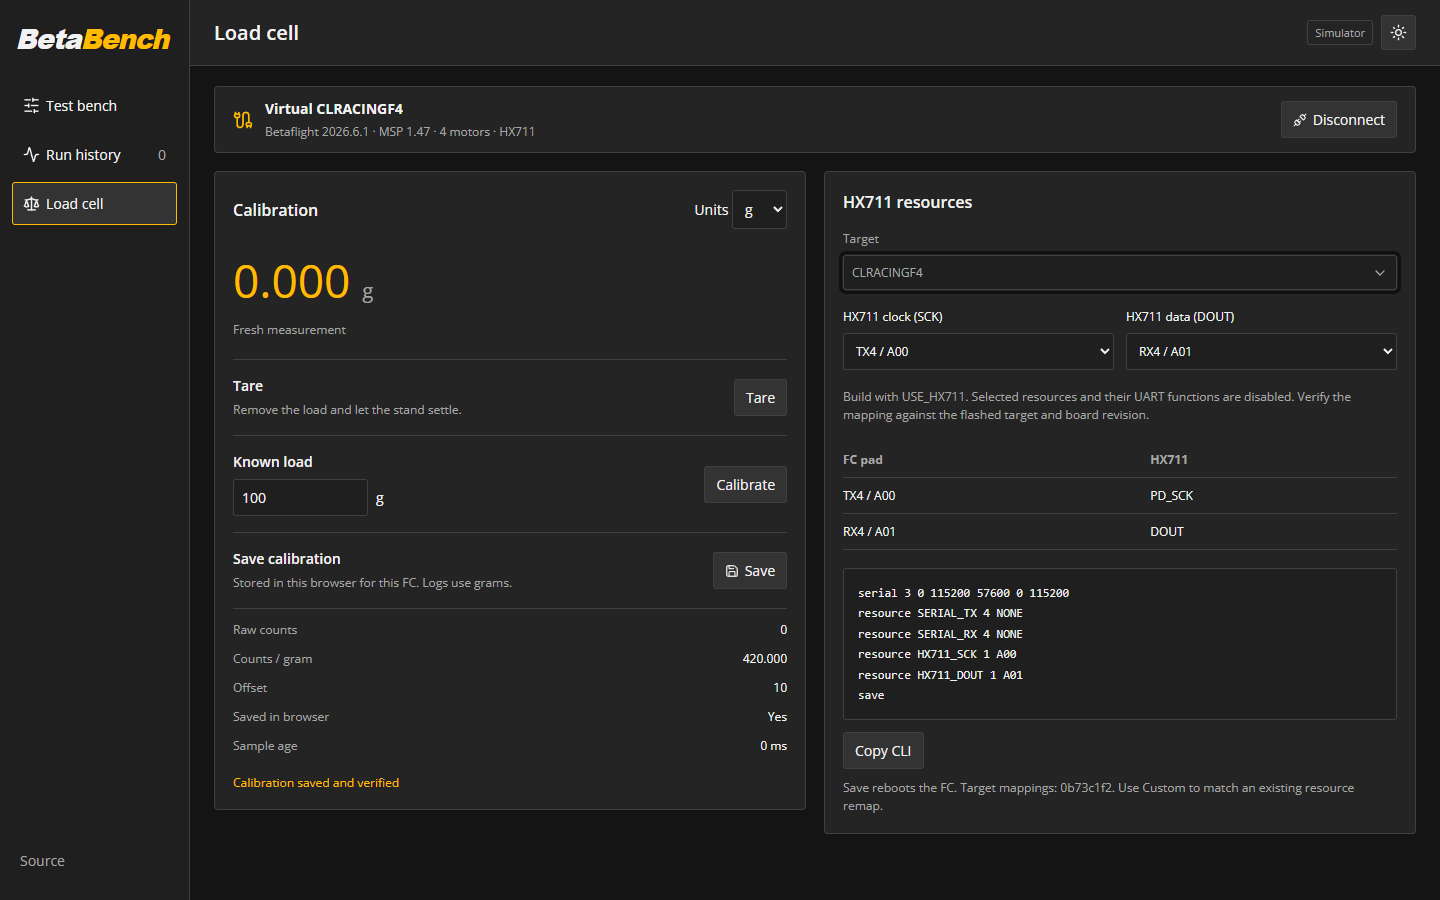
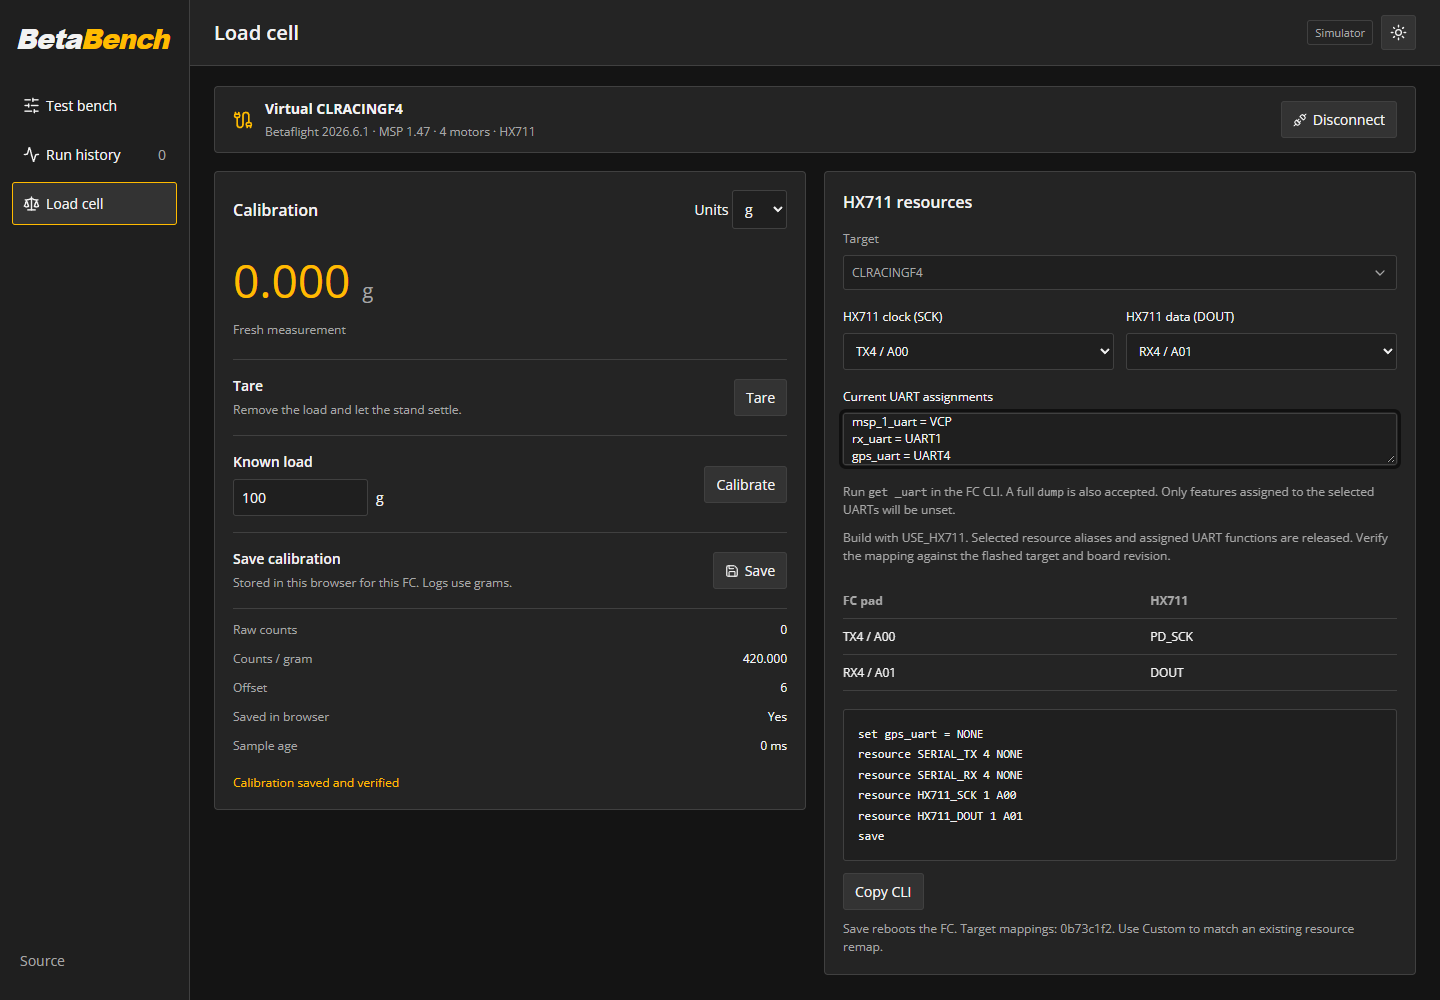
Use feature UART settings in HX711 resource helper

diff --git a/src/ResourceSetup.tsx b/src/ResourceSetup.tsx
@@ -7,20 +7,40 @@ export type Pad = {
   index: number;
   pin: string;
 };
-export function resourceCli(pads: Pad[], sck: Pad, dout: Pad) {
+export function uartAssignments(text: string) {
+  const assignments = new Map<string, string>();
+  for (const line of text.split("\n")) {
+    const match = line
+      .trim()
+      .match(
+        /^(?:set\s+)?([a-z][a-z0-9_]*_uart)\s*=\s*(NONE|VCP|UART\d+|LPUART\d+|PIOUART\d+|SOFT\d+)\s*$/i,
+      );
+    if (match) assignments.set(match[1].toLowerCase(), match[2].toUpperCase());
+  }
+  return assignments;
+}
+
+function affectedPads(pads: Pad[], sck: Pad, dout: Pad) {
+  return pads.filter((p) => p.pin === sck.pin || p.pin === dout.pin);
+}
+
+export function resourceCli(pads: Pad[], sck: Pad, dout: Pad, settings = "") {
   if (sck.pin === dout.pin) throw Error("Choose different GPIO pads");
-  const affected = pads.filter((p) => p.pin === sck.pin || p.pin === dout.pin);
-  const uarts = [
-    ...new Set(
-      affected
-        .filter((p) => p.resource.startsWith("SERIAL_"))
-        .map((p) => p.index),
-    ),
-  ];
+  const affected = affectedPads(pads, sck, dout);
+  const uarts = new Set(
+    affected
+      .filter((p) => p.resource === "SERIAL_TX" || p.resource === "SERIAL_RX")
+      .map((p) => `UART${p.index}`),
+  );
+  const assignments = uartAssignments(settings);
+  if (uarts.size && !assignments.size)
+    throw Error(
+      "Paste the complete output of get _uart to identify functions using these UART pads",
+    );
   return [
-    ...uarts
-      .sort((a, b) => a - b)
-      .map((n) => `serial ${n - 1} 0 115200 57600 0 115200`),
+    ...[...assignments]
+      .filter(([, port]) => uarts.has(port))
+      .map(([setting]) => `set ${setting} = NONE`),
     ...new Set(affected.map((p) => `resource ${p.resource} ${p.index} NONE`)),
     `resource HX711_SCK 1 ${sck.pin}`,
     `resource HX711_DOUT 1 ${dout.pin}`,
@@ -36,10 +56,19 @@ export function ResourceSetup() {
   const [customSck, setCustomSck] = useState("");
   const [customDout, setCustomDout] = useState("");
   const [customResources, setCustomResources] = useState("");
+  const [uartSettings, setUartSettings] = useState("");
   const [copied, setCopied] = useState(false);
   useEffect(
     () => setCopied(false),
-    [name, sckKey, doutKey, customSck, customDout, customResources],
+    [
+      name,
+      sckKey,
+      doutKey,
+      customSck,
+      customDout,
+      customResources,
+      uartSettings,
+    ],
   );
   const target = data.targets.find((t) => t.name === name);
   const pads: Pad[] =
@@ -65,6 +94,7 @@ export function ResourceSetup() {
       pads.find((p) => p.pin !== sck.pin)!)
     : { label: "DOUT", resource: "", index: 1, pin: customDout.toUpperCase() };
   function selectTarget(value: string) {
+    setUartSettings("");
     setName(value);
     setQuery(value === "custom" ? "Custom / current resource dump" : value);
     const t = data.targets.find((t) => t.name === value);
@@ -81,6 +111,12 @@ export function ResourceSetup() {
   }
   let cli = "",
     error = "";
+  const needsUartSettings =
+    sck &&
+    dout &&
+    affectedPads(pads, sck, dout).some(
+      (p) => p.resource === "SERIAL_TX" || p.resource === "SERIAL_RX",
+    );
   if (name)
     try {
       if (
@@ -90,9 +126,14 @@ export function ResourceSetup() {
         !/^([A-Z]\d{2})$/.test(dout.pin)
       )
         throw Error("Enter GPIO pins such as A00 and A01");
-      cli = resourceCli(pads, sck, dout);
+      cli = resourceCli(
+        pads,
+        sck,
+        dout,
+        `${target ? "" : customResources}\n${uartSettings}`,
+      );
     } catch (e) {
-      error = String(e);
+      error = e instanceof Error ? e.message : String(e);
     }
   return (
     <section className="panel wiring">
@@ -115,6 +156,7 @@ export function ResourceSetup() {
             setName("");
             setSck("");
             setDout("");
+            setUartSettings("");
           }}
           onSelect={selectTarget}
         />
@@ -183,10 +225,26 @@ export function ResourceSetup() {
               </div>
             </>
           )}
+          {needsUartSettings && (
+            <label>
+              Current UART assignments
+              <textarea
+                aria-label="Current UART assignments"
+                placeholder="Paste the complete output of get _uart"
+                value={uartSettings}
+                onChange={(e) => setUartSettings(e.target.value)}
+              />
+              <span className="subtle">
+                Run <code>get _uart</code> in the FC CLI. A full{" "}
+                <code>dump</code> is also accepted. Only features assigned to
+                the selected UARTs will be unset.
+              </span>
+            </label>
+          )}
           <p className="subtle">
-            Build with USE_HX711. Selected resources and their UART functions
-            are disabled. Verify the mapping against the flashed target and
-            board revision.
+            Build with USE_HX711. Selected resource aliases and assigned UART
+            functions are released. Verify the mapping against the flashed
+            target and board revision.
           </p>
           <table>
             <thead>

diff --git a/tests/resources.test.ts b/tests/resources.test.ts
@@ -1,15 +1,22 @@
 import { it, expect } from "vitest";
-import { resourceCli } from "../src/ResourceSetup";
+import { resourceCli, uartAssignments } from "../src/ResourceSetup";
 import targets from "../src/targets.json";
 it("releases UART functions and all resource aliases for the chosen pads", () => {
   const target = targets.targets.find((t) => t.name === "CLRACINGF4")!;
   const sck = target.pads.find((p) => p.label === "TX4")!,
     dout = target.pads.find((p) => p.label === "RX4")!;
-  expect(resourceCli(target.pads, sck, dout)).toBe(
-    "serial 3 0 115200 57600 0 115200\nresource SERIAL_TX 4 NONE\nresource SERIAL_RX 4 NONE\nresource HX711_SCK 1 A00\nresource HX711_DOUT 1 A01\nsave",
+  expect(
+    resourceCli(
+      target.pads,
+      sck,
+      dout,
+      "gps_uart = UART4\nmsp_1_uart = VCP\nrx_uart = UART1",
+    ),
+  ).toBe(
+    "set gps_uart = NONE\nresource SERIAL_TX 4 NONE\nresource SERIAL_RX 4 NONE\nresource HX711_SCK 1 A00\nresource HX711_DOUT 1 A01\nsave",
   );
   const motor = target.pads.find((p) => p.label === "M5")!;
-  const cli = resourceCli(target.pads, motor, dout);
+  const cli = resourceCli(target.pads, motor, dout, "gps_uart = UART4");
   expect(cli).toContain("resource MOTOR 5 NONE");
   expect(cli).toContain("resource LED_STRIP 1 NONE");
   expect(() => resourceCli(target.pads, sck, sck)).toThrow();
@@ -20,4 +27,77 @@ it("offers unique target names and at least two distinct pads per target", () =>
   );
   for (const t of targets.targets)
     expect(new Set(t.pads.map((p) => p.pin)).size).toBeGreaterThanOrEqual(2);
+});
+
+it("parses active get/dump assignments, ignores defaults and uses the final value", () => {
+  expect([
+    ...uartAssignments(`
+# get _uart
+rx_uart = UART1
+Allowed values: NONE, VCP, UART1, UART4
+Default value: UART4
+# set rx_uart = UART4
+set gps_uart = UART4
+SET MSP_1_UART = vcp
+set gps_uart = NONE
+serial 3 0 115200 57600 0 115200
+`),
+  ]).toEqual([
+    ["rx_uart", "UART1"],
+    ["gps_uart", "NONE"],
+    ["msp_1_uart", "VCP"],
+  ]);
+});
+it("unsets all matching features across both pads while preserving unrelated ports and selectors", () => {
+  const pads = [
+    { label: "TX1", resource: "SERIAL_TX", index: 1, pin: "A09" },
+    { label: "RX4", resource: "SERIAL_RX", index: 4, pin: "A01" },
+  ];
+  const cli = resourceCli(
+    pads,
+    pads[0],
+    pads[1],
+    `
+set msp_1_uart = VCP
+set msp_2_uart = UART1
+rx_uart = UART4
+telemetry_1_uart = UART4
+gps_uart = UART10
+vtx_uart = NONE
+set telemetry_1_protocol = CRSF
+set gps_baudrate = 115200
+`,
+  );
+  expect(cli.split("\n").slice(0, 3)).toEqual([
+    "set msp_2_uart = NONE",
+    "set rx_uart = NONE",
+    "set telemetry_1_uart = NONE",
+  ]);
+  expect(cli).not.toMatch(/msp_1|gps_|vtx_|protocol|baudrate|^serial /m);
+});
+it("requires current assignments for UART pads, including aliases, and allows an unused UART", () => {
+  const pads = [
+    { label: "M1", resource: "MOTOR", index: 1, pin: "A09" },
+    { label: "TX1", resource: "SERIAL_TX", index: 1, pin: "A09" },
+    { label: "M2", resource: "MOTOR", index: 2, pin: "B00" },
+  ];
+  for (const settings of [
+    "",
+    "# rx_uart = UART1",
+    "serial 0 0 115200 57600 0 115200",
+  ])
+    expect(() => resourceCli(pads, pads[0], pads[2], settings)).toThrow(
+      "get _uart",
+    );
+  const cli = resourceCli(
+    pads,
+    pads[0],
+    pads[2],
+    "msp_1_uart = VCP\nrx_uart = UART2",
+  );
+  expect(cli).toContain("resource SERIAL_TX 1 NONE");
+  expect(cli).not.toMatch(/^set |^serial /m);
+  expect(resourceCli([pads[0], pads[2]], pads[0], pads[2])).toContain(
+    "resource HX711_DOUT 1 B00",
+  );
 });

diff --git a/e2e/editor.spec.ts b/e2e/editor.spec.ts
@@ -71,6 +71,17 @@ test("metric toggles, units, target/pad selection and custom CLI", async ({
   await page
     .getByLabel("HX711 data (DOUT)", { exact: true })
     .selectOption("RX4");
+  await expect(page.getByTestId("resource-cli")).toHaveCount(0);
+  await page
+    .getByLabel("Current UART assignments", { exact: true })
+    .fill("msp_1_uart = VCP\ngps_uart = UART4\nrx_uart = UART1");
+  await expect(page.getByTestId("resource-cli")).toContainText(
+    "set gps_uart = NONE",
+  );
+  await expect(page.getByTestId("resource-cli")).not.toContainText(
+    "msp_1_uart",
+  );
+  await expect(page.getByTestId("resource-cli")).not.toContainText("serial ");
   await expect(page.getByTestId("resource-cli")).toContainText(
     "resource HX711_SCK 1 A00",
   );
@@ -90,11 +101,13 @@ test("metric toggles, units, target/pad selection and custom CLI", async ({
   await page
     .getByLabel("Current resource assignments")
     .fill(
-      "resource MOTOR 3 B08\nresource LED_STRIP 1 B08\nresource SERIAL_RX 2 A03",
+      "resource MOTOR 3 B08\nresource LED_STRIP 1 B08\nresource SERIAL_RX 2 A03\nset rx_uart = UART2\nset msp_1_uart = VCP",
     );
   await page.getByLabel("Clock GPIO").fill("B08");
   await page.getByLabel("Data GPIO").fill("A03");
-  await expect(page.getByTestId("resource-cli")).toContainText("serial 1 0");
+  await expect(page.getByTestId("resource-cli")).toContainText(
+    "set rx_uart = NONE",
+  );
   await expect(page.getByTestId("resource-cli")).toContainText(
     "resource HX711_SCK 1 B08",
   );

diff --git a/e2e/selectors.spec.ts b/e2e/selectors.spec.ts
@@ -62,6 +62,10 @@ test("target search starts empty, requires selection, supports keyboard and clea
   await target.press("ArrowDown");
   await target.press("Enter");
   await expect(target).toHaveValue("CLRACINGF4");
+  await expect(page.getByTestId("resource-cli")).toHaveCount(0);
+  await page
+    .getByLabel("Current UART assignments", { exact: true })
+    .fill("msp_1_uart = VCP\nrx_uart = UART1");
   await expect(page.getByTestId("resource-cli")).toContainText(
     "resource HX711_SCK",
   );

diff --git a/firmware/README.md b/firmware/README.md
@@ -30,12 +30,12 @@ git am /path/to/Betabench/firmware/hx711.patch
 
 ## GPIO setup
 
-Use the web app's **Load cell → HX711 resources** target/pad selectors to generate CLI commands, or paste current resource assignments under Custom when the FC has been remapped. Snapshot target mappings are from the config revision above; verify the board revision and flashed target. Disable the functions currently using the selected pads and release all resource aliases. Commands are generated for manual review and execution in Configurator.
+Use the web app's **Load cell → HX711 resources** target/pad selectors to generate CLI commands, or paste current resource assignments under Custom when the FC has been remapped. Snapshot target mappings are from the config revision above; verify the board revision and flashed target. For UART pads, paste the complete output of `get _uart` from the FC (a full `dump` also works). The helper unsets only `<feature>_uart` assignments matching the selected UARTs, preserving USB MSP, other ports, protocol selections and baud rates. Do not use a partial `diff` as the assignment snapshot. Release all resource aliases. Commands are generated for manual review and execution in Configurator.
 
-CLRACINGF4 example: USB carries MSP; TX4/PA0 is PD_SCK and RX4/PA1 is DOUT. These resources replace UART4:
+CLRACINGF4 example: USB carries MSP; TX4/PA0 is PD_SCK and RX4/PA1 is DOUT. These resources replace UART4. In this example, `get _uart` reports `gps_uart = UART4`; clear every feature actually assigned to UART4, or omit the `set` line if none are assigned:
 
 ```text
-serial 3 0 115200 57600 0 115200
+set gps_uart = NONE
 resource SERIAL_TX 4 NONE
 resource SERIAL_RX 4 NONE
 resource HX711_SCK 1 A00
@@ -57,7 +57,7 @@ resource SERIAL_RX 4 A01
 save
 ```
 
-Then restore UART4's original serial function and baud settings.
+Then restore UART4's original `<feature>_uart` assignments from the backup (for this example, `set gps_uart = UART4`), and save. The helper does not modify protocol or baud settings.
 
 ## Calibration and logging
 

diff --git a/README.md b/README.md
@@ -37,7 +37,7 @@ _Simulator load-cell setup with a manually selected target; no hardware connecte
 
 Build the optional firmware with `USE_HX711`, connect an HX711 to free GPIO resources, then use **Load cell** to tare the empty stand, enter a known mass in grams, calibrate, and save in this browser for this FC UID. Capture needs stopped motors and stable samples. GPIO assignments alone are stored on the FC. Calibration and logs can be exported with run JSON.
 
-Search for and explicitly select a target, then choose repurposed pads to generate resource CLI commands; no target is preselected. Custom supports current resource dumps. CLRACINGF4 can use TX4/PA0 for clock and RX4/PA1 for data, with USB for MSP. Pins are assigned through normal Betaflight CLI resources with Save/Reboot, without changing the board target. See the [firmware guide](firmware/README.md) for signal voltage, complete commands, restoration, and build instructions.
+Search for and explicitly select a target, then choose repurposed pads to generate resource CLI commands; no target is preselected. For UART pads, paste the complete `get _uart` output so the helper can unset only features on the selected ports using modern `<feature>_uart` settings. USB MSP and unrelated ports are preserved. Custom supports current resource dumps. CLRACINGF4 can use TX4/PA0 for clock and RX4/PA1 for data, with USB for MSP. Pins are assigned through normal Betaflight CLI resources with Save/Reboot, without changing the board target. See the [firmware guide](firmware/README.md) for signal voltage, complete commands, restoration, and build instructions.
 
 ## Development
 

diff --git a/PLAN.md b/PLAN.md
@@ -28,6 +28,8 @@ Betaflight changes are limited to an opt-in `USE_HX711` raw sensor driver, persi
 - [x] Show independently selectable current, voltage, power and thrust curves together.
 - [x] Add grams, kilograms, newtons and pounds-force display/calibration units; retain grams in logs.
 - [x] Add target/pad selectors and a custom resource-dump CLI generator; remove supply/ground UI rows.
+- [x] Replace deprecated serial commands with per-feature UART assignments from current `get _uart` output; preserve unrelated ports and USB MSP.
+  - Verified with 31 unit tests, 10 Edge browser tests and a production build; refreshed the load-cell screenshot.
 - [x] Retain stock MSP discovery, priority Stop, 50 Hz worker commands, 20 Hz telemetry and run aborts.
 - [x] Retain incremental run logging, interrupted-run recovery, overlays and CSV/JSON exports.
 - [x] Run HX711 driver host tests.
